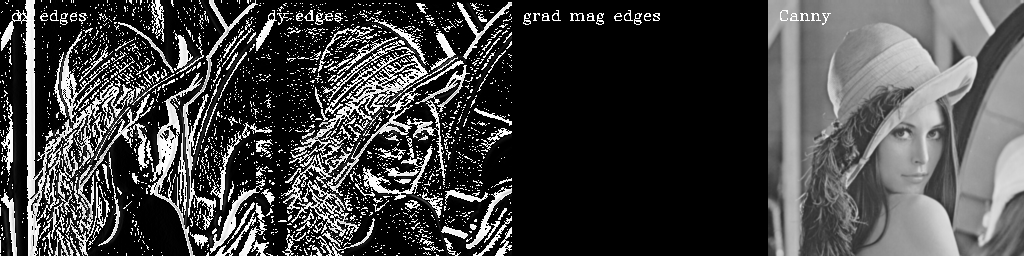
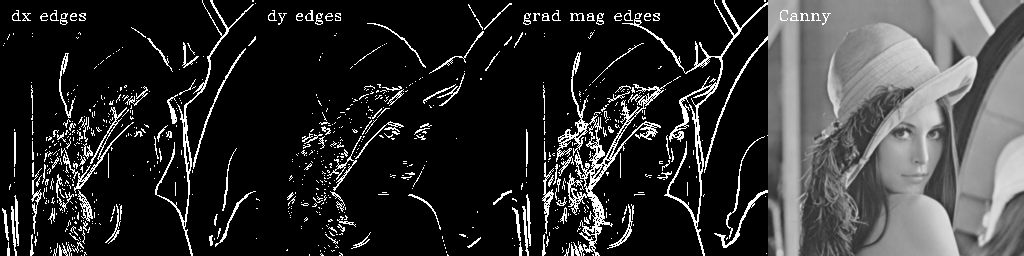
Add answers to 2.1.b

diff --git a/Exercise2/exercise2.py b/Exercise2/exercise2.py
@@ -5,6 +5,7 @@ import cv2, numpy as np, os
 
 # Exercise 2.1 ----------------------------------------------------------------------
 
+# 2.1.a
 def ComputeGradients(image):
 
   # Define the kernels
@@ -32,13 +33,26 @@ def ComputeGradients(image):
   
   return dx, dy, gradMag, dx2, dy2, laplacian
 
-# TODO finish this for exercise 2.1.b
+def convertToMag(src):
+  (iend, jend) = src.shape
+  
+  for i in range(0, iend):
+    for j in range(0, jend):
+      src[i][j] = (src[i][j]**2)**.5
+  
+  return src
+
+# 2.1.b
 def ComputeEdges(dx, dy, gradientMagnitude):
 
-  # TODO: Threshold the images at magnitude over 0.075.
-  dxEdges = dx
-  dyEdges = dy
-  gradientMagnitudeEdges = gradientMagnitude
+  # Threshold the images at magnitude over 0.075.
+  
+  dx = convertToMag(dx)
+  dy = convertToMag(dy)  
+
+  ret, dxEdges = cv2.threshold(dx, 0.075, 1.0, cv2.THRESH_BINARY)
+  ret, dyEdges = cv2.threshold(dy, 0.075, 1.0, cv2.THRESH_BINARY)
+  ret, gradientMagnitudeEdges = cv2.threshold(gradientMagnitude, 0.075, 1.0, cv2.THRESH_BINARY)
   
   return dxEdges, dyEdges, gradientMagnitudeEdges
 
